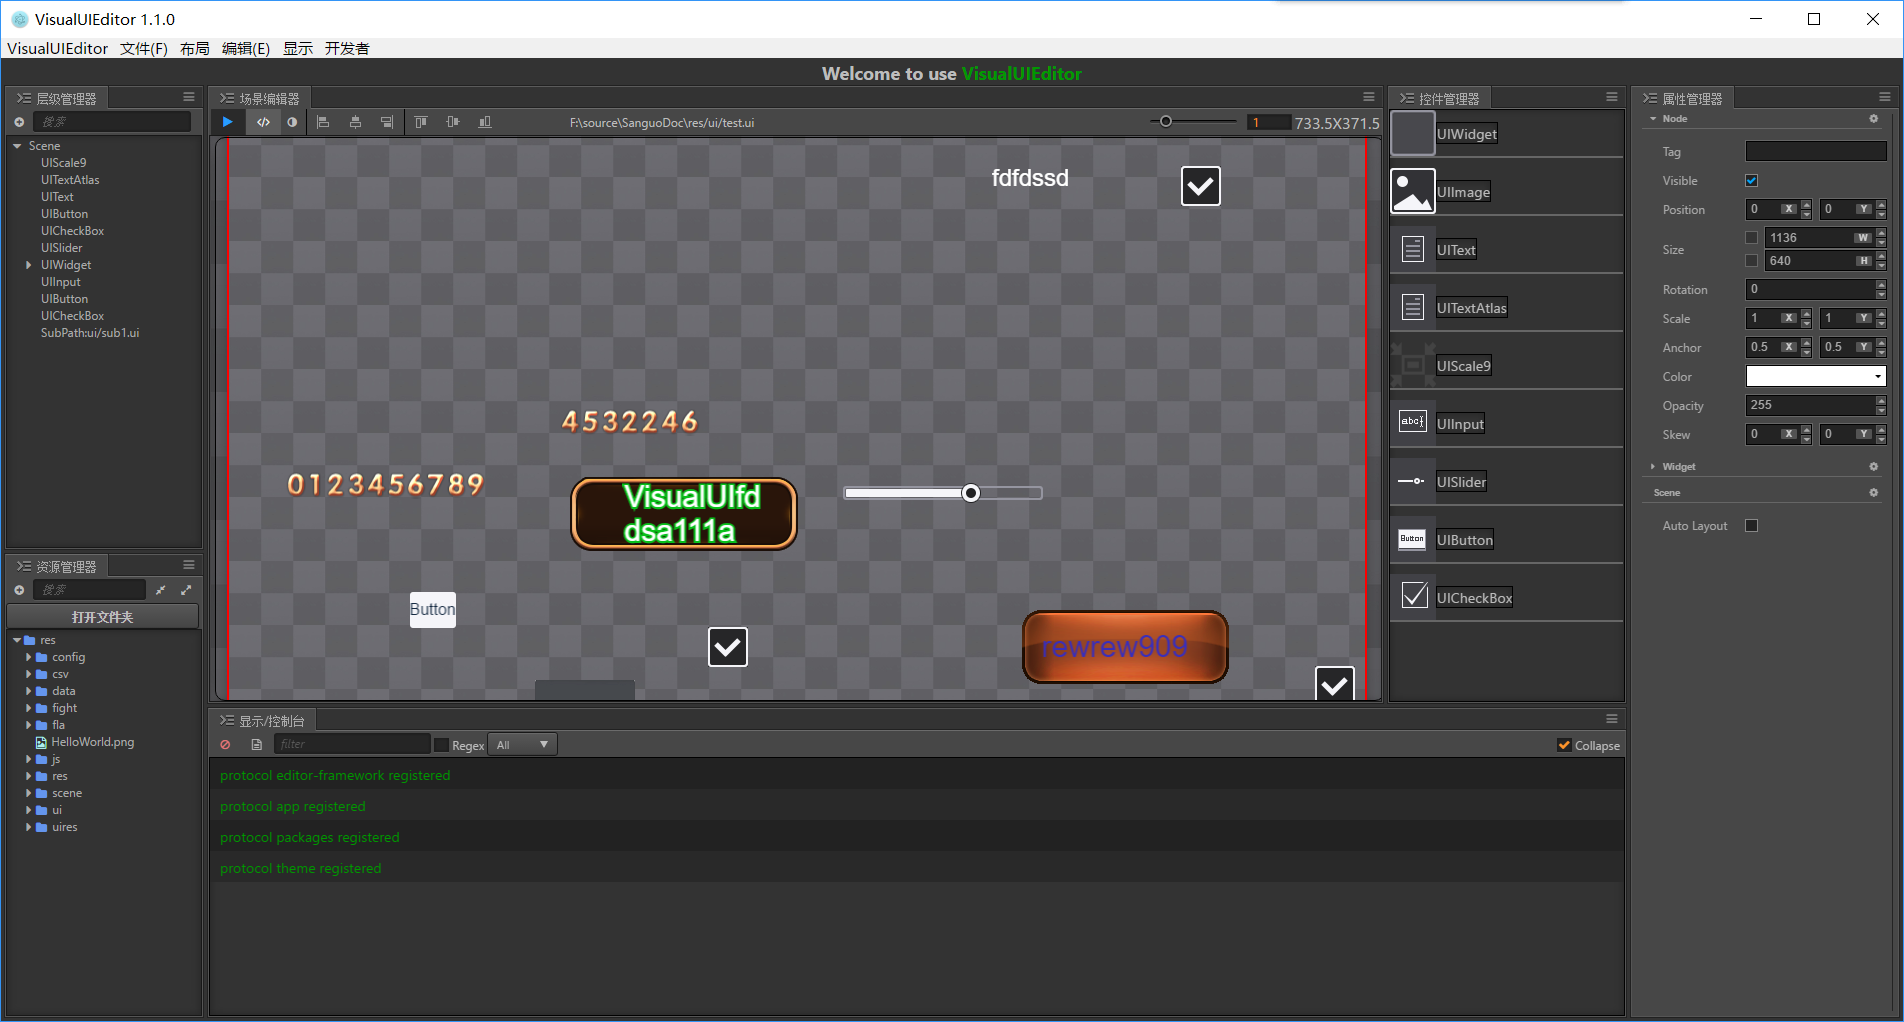
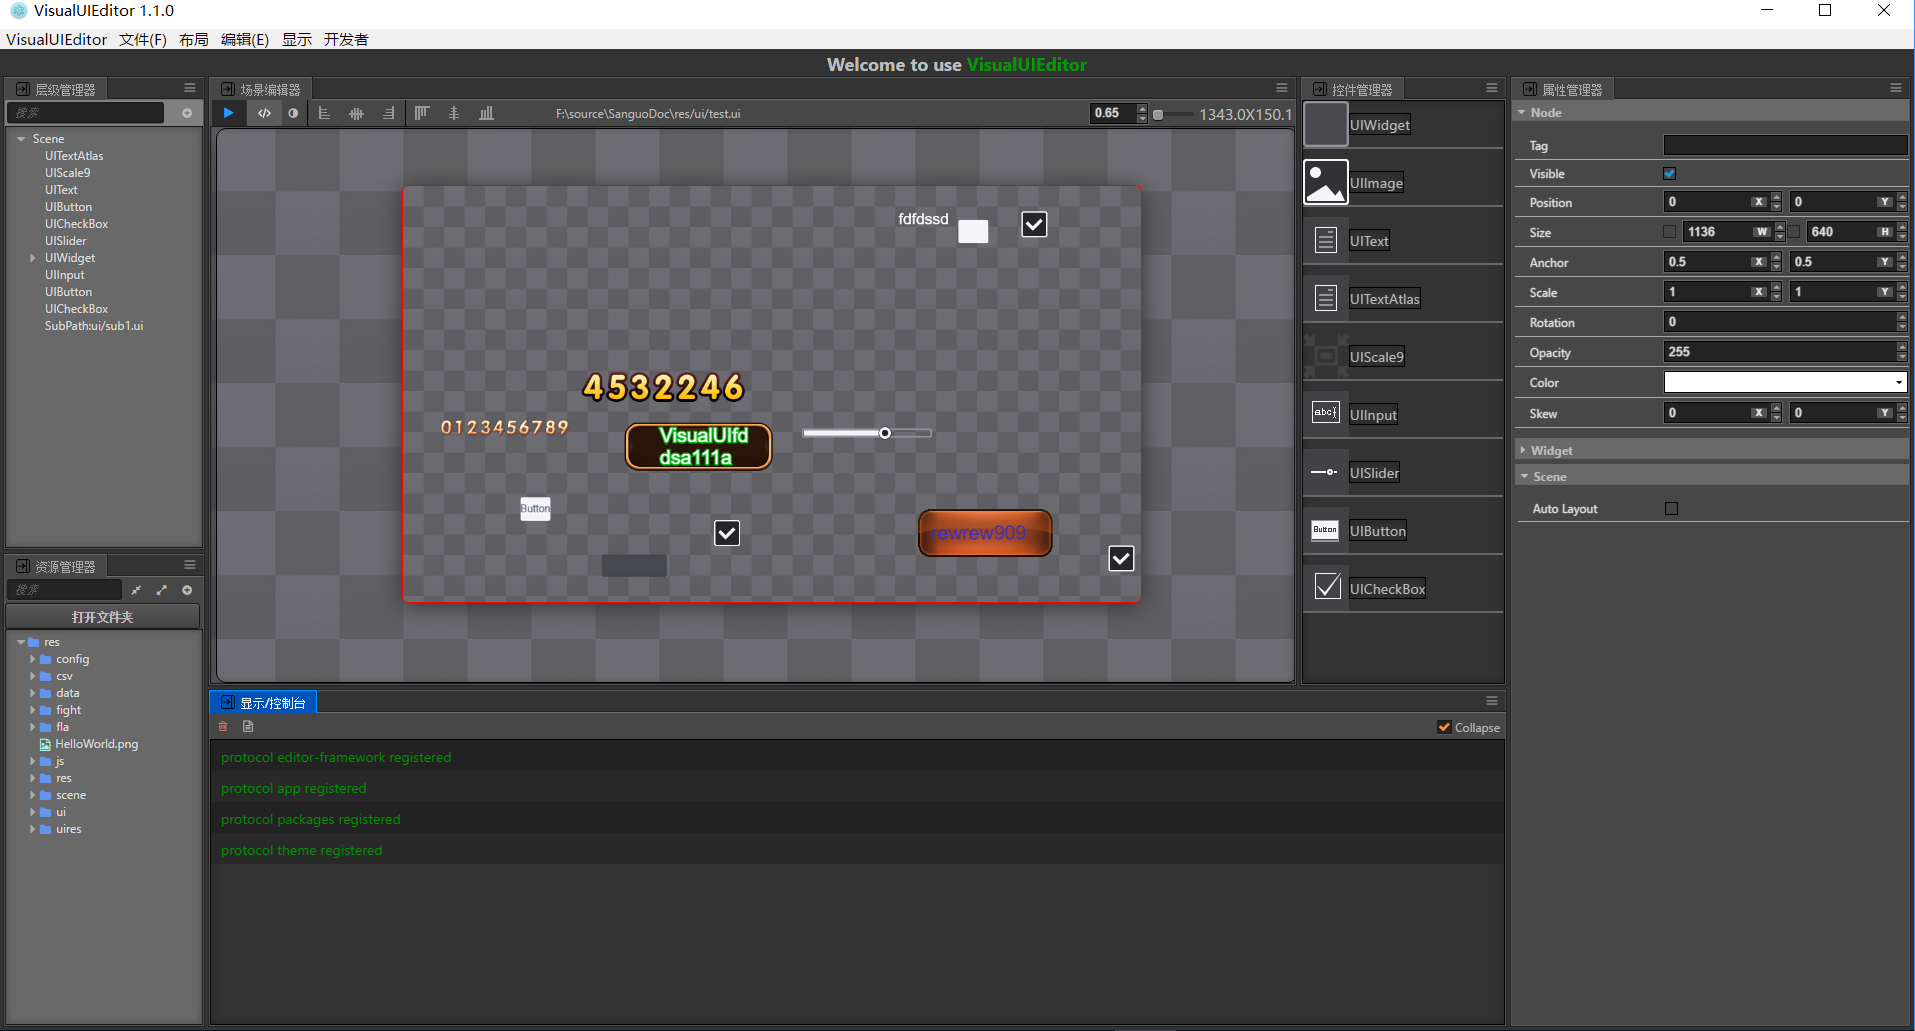
update screenprint.png

diff --git a/third/packages/ui-kit/widget/unit-input/unit-input.html b/third/packages/ui-kit/widget/unit-input/unit-input.html
@@ -5,6 +5,7 @@
 
   <template>
     <div class="border flex-1 layout horizontal center" >
+      <span id="hint" on-mousedown="_onHintMounseDown">{{hint}}</span>
       <input is="iron-input" id="input"
         type="text"
         readonly$="{{readonly}}"
@@ -15,7 +16,6 @@
         on-keydown="_onInputKeyDown"
         >
       </input>
-      <span id="hint" on-mousedown="_onHintMounseDown">{{hint}}</span>
       <div class="btngroup">
         <span class="btn"
           tabindex="-1"

diff --git a/packages/console/panel/console.html b/packages/console/panel/console.html
@@ -28,7 +28,7 @@
         border: 1px solid black;
 
         box-shadow: inset 0 0 8px 2px rgba(0,0,0,0.2);
-        background: #333;
+        background: #808080;
       }
 
       ul {
@@ -39,11 +39,11 @@
       }
 
       editor-console-item {
-        background: #222;
+        background: #333;
       }
 
       editor-console-item:nth-child(even) {
-        background: #292929;
+        background: #393939;
       }
     </style>
 
